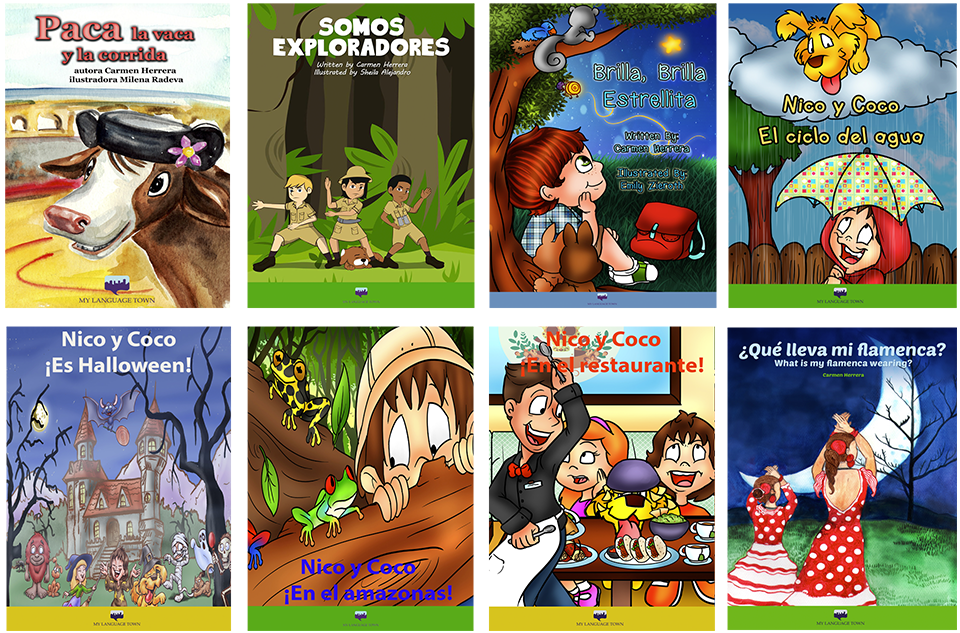
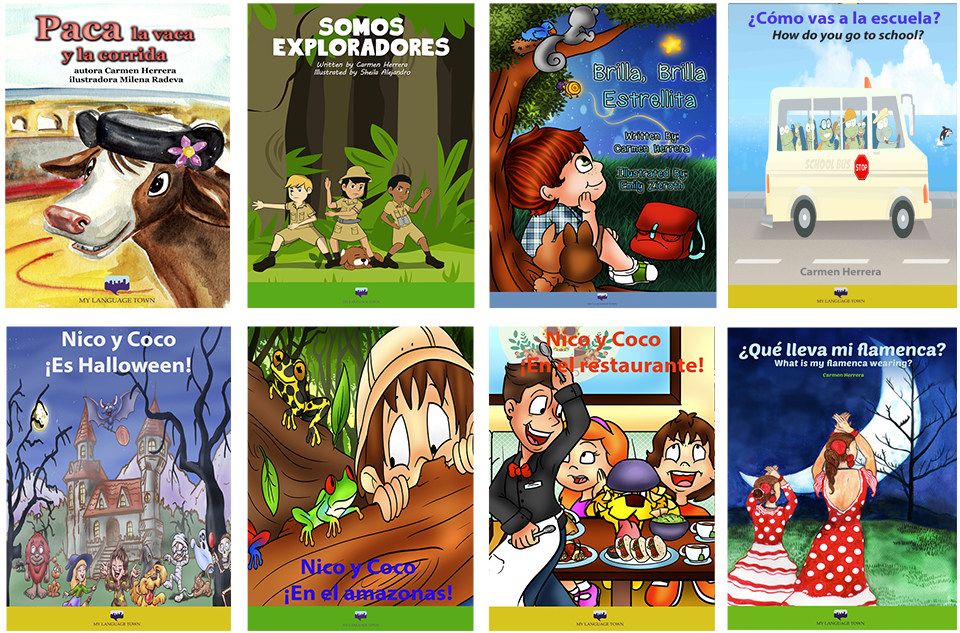
Image update and remove 6/30 text

Changed region(s): [[0.75, 0.0, 1.0, 0.5103]]

diff --git a/mylanguagetown/index.php b/mylanguagetown/index.php
@@ -45,7 +45,7 @@
                 
                 <img src="<?php echo $server; ?>lib/images/mlt-ereader.png" alt="My Language Town eReaders" style="float:right;margin-top:50px;"/>
                 
-                <h1 class="no-bottom">Available June 30th | Starting at $2.95</h1>
+                <h1 class="no-bottom">Starting at $2.95</h1>
                 <p class="no-top">A colorful way to learn more about Spanish language and culture My Language Town (MLT) eReaders create an engaging, interactive reading experience. Whether incorporated into the classroom curriculum or used as an independent study, MLT eReaders will enrich your students' language learning.</p>
                 
                 <h3>Key Features:</h3>

diff --git a/world-languages/readers/index.php b/world-languages/readers/index.php
@@ -26,7 +26,6 @@
                     <p>Original Spanish eReaders series packed with communicative dialogs and activities and a collection of songs for mastering vocabulary, grammar and culture. Designed for use both in the classroom and as an independent study, My Language Town materials can make learning Spanish language an interactive, engaging experience.</p>
 
                     <ul>
-                        <li>Available in Spanish (June 30th)</li>
                         <li>Digital and paperback (on demand only)</li>
                         <li>Songs</li>
                     </ul>            
